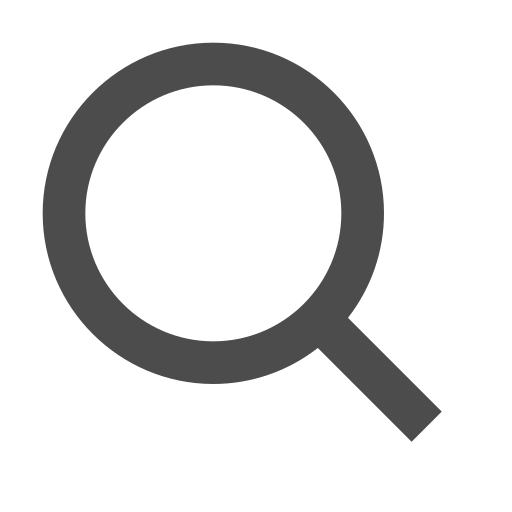
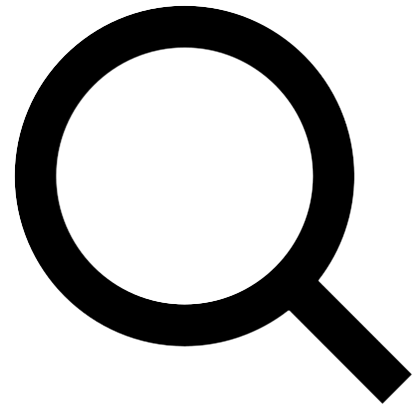
main-header

diff --git a/templates/main/header-search.html b/templates/main/header-search.html
@@ -1,0 +1,55 @@
+<!DOCTYPE html>
+<html lang="en">
+    <head>
+        <meta charset="UTF-8" />
+        <meta name="viewport" content="width=device-width, initial-scale=1.0" />
+        <title>Document</title>
+    </head>
+    <body>
+        <div
+            class="search-full-modal"
+            data-target=""
+            id="searchModal"
+            style="display: block"
+        >
+            <div class="search-part">
+                <div class="container">
+                    <img src="/static/images/main/search-icon.png" /><input
+                        name="csrfmiddlewaretoken"
+                        type="hidden"
+                    /><input
+                        class="news-search-input"
+                        id="searchInput"
+                        placeholder="키워드, 작가 이름 검색하기"
+                        type="text"
+                    /><img
+                        class="icon-close"
+                        src="/static/renewal/img/news/icon_modal_close.png"
+                    />
+                </div>
+            </div>
+            <div class="search-sub-part">
+                <div class="container">
+                    <div class="recent-keyword-part">
+                        <div class="title">
+                            최근 검색어
+                            <div class="sub-action" style="display: none">
+                                전체 삭제
+                            </div>
+                        </div>
+                        <div class="recent-keyword-part-wrapper empty">
+                            <div class="empty-recent-keyword">
+                                최근 검색어가 없습니다.
+                            </div>
+                            <div
+                                class="recent-keyword-list"
+                                id="recentKeywordList"
+                            ></div>
+                        </div>
+                    </div>
+                </div>
+            </div>
+            <div class="background-overlay"></div>
+        </div>
+    </body>
+</html>

diff --git a/templates/main/header-logout.html b/templates/main/header-logout.html
@@ -39,13 +39,10 @@
                         <div class="icon-box">
                             <div class="btn search-box flex-box">
                                 <img
-                                    src=""
-                                />
-                            </div>
-                            <img
                                 class="icon search-icon only-mobile"
                                 src="/static/images/main/search-Icon.png"
                             />
+                            </div>
                             <div class="divider only-pc"></div>
                             <div class="button-group-box" id="buttonGroupBox">
                                 <a

diff --git a/static/css/main/header-logout.css b/static/css/main/header-logout.css
@@ -103,6 +103,10 @@ a {
     color: #212121;
 }
 
+.text900:hover {
+    color: #002fff;
+}
+
 .body-2-medium {
     font-weight: 500;
 }
@@ -114,9 +118,13 @@ a {
 }
 
 .search-box {
-    padding: 8px;
-    border-radius: 8px;
+    padding: 7px;
     margin-right: 4px;
+    border-radius: 8px;
+}
+
+.search-box:hover {
+    background-color: #fafafa;
 }
 
 .btn {
